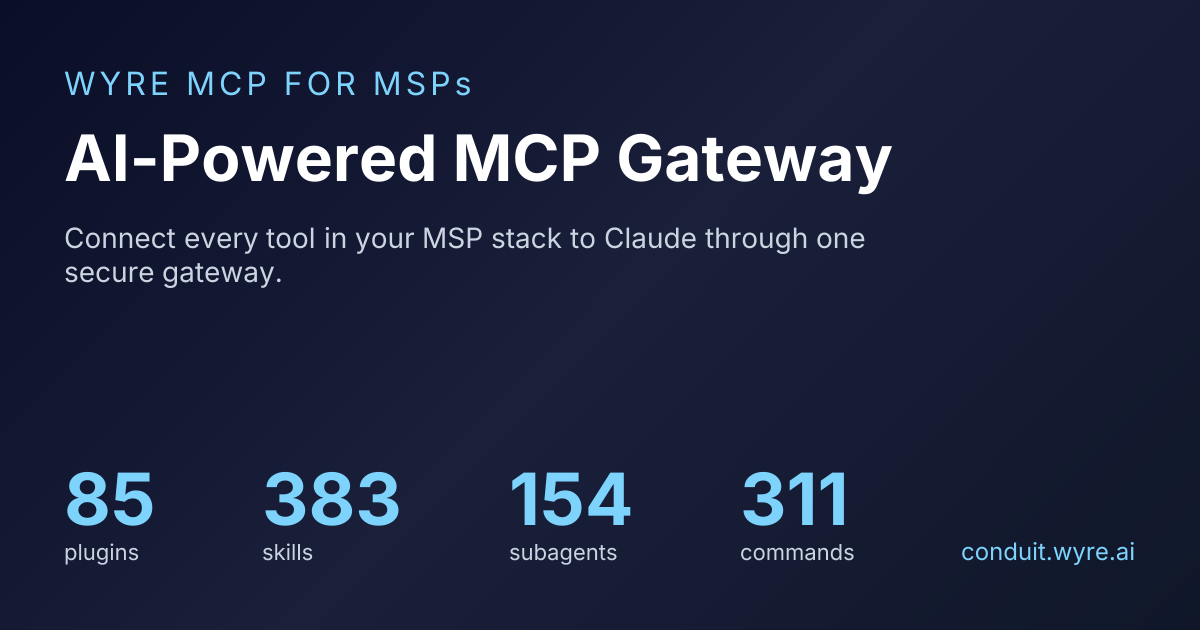
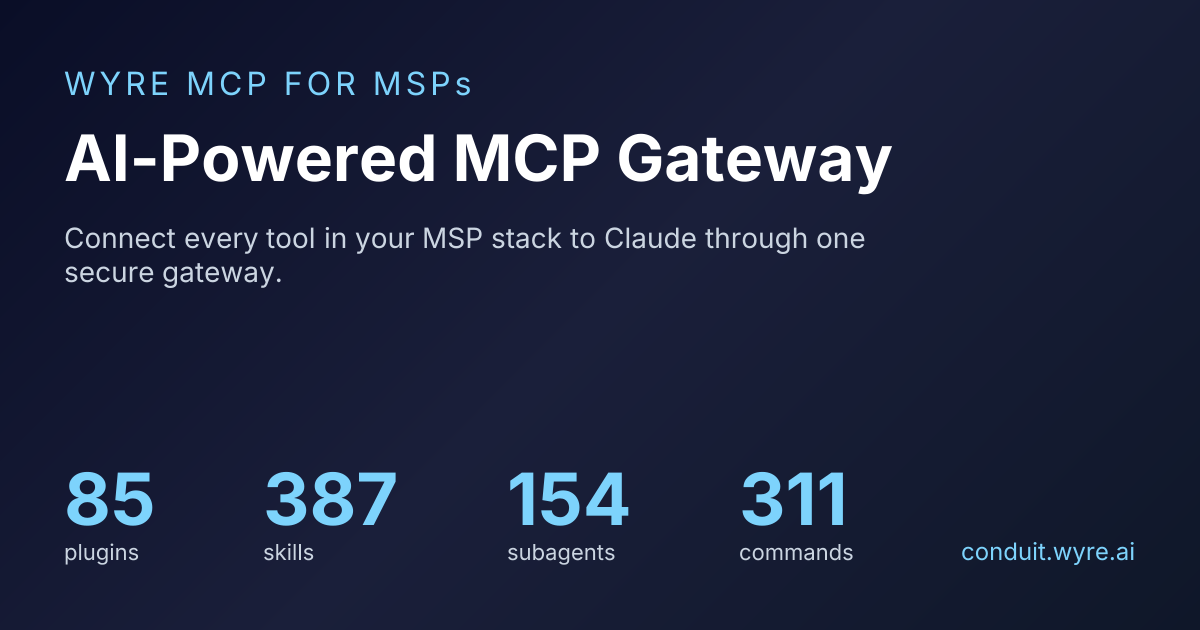
docs: Conduit .mcp.json convention, shared-skills README, changelog, marketplace 1.35.0
- CONTRIBUTING.md: replace the npx/stdio @vendor/mcp-server template with
  the two conventions in use (connector-only, or URL-only per-slug
  .mcp.json, deprecated but supported), explain why Conduit ignores client
  headers, and require live Conduit tool names.
- shared-skills gains a README.
- CHANGELOG entry for this branch; marketplace version 1.35.0.
- Regenerate docs data, og-image and .agents manifests.

Claude-Session: https://claude.ai/code/session_01TSPBH4dciHwEHh8MnRWLb7

diff --git a/msp-claude-plugins/docs/src/data/plugins.ts b/msp-claude-plugins/docs/src/data/plugins.ts
@@ -237,6 +237,7 @@ export const plugins: Plugin[] = [
     features: [
       'Billing',
       'Configuration Items',
+      'Contract Services',
       'Contract Management',
       'CRM Operations',
       'Expense Management',
@@ -252,6 +253,7 @@ export const plugins: Plugin[] = [
     skills: [
       { name: 'billing', description: 'Autotask billing item retrieval, approval-level workflows, and invoice search — covering billing item types, approval status filtering, and reconciliation of billable work against invoices for MSP finance teams.' },
       { name: 'configuration-items', description: 'Autotask Configuration Item (CI) asset management: CI types and categories, lifecycle status codes, the CI field schema, related-item relationships, DNS records, notes, and contract/billing associations for MSP infrastructure tracking.' },
+      { name: 'contract-services', description: 'The recurring-billing side of Autotask contracts: service and bundle lines (autotask_search_contract_services, autotask_search_contract_service_bundles), the billed unit rows behind them (autotask_search_contract_service_units, autotask_search_contract_service_bundle_units), the per-contract monthly recurring-revenue roll-up (autotask_get_contract_recurring_lines), and writing service lines and onboarding contract shells.' },
       { name: 'contracts', description: 'Autotask contract and service agreement management - contract types (recurring services, block hours, time & materials, fixed price, retainer), service/service bundle associations, SLAs, and how contracts drive billing for MSP account managers.' },
       { name: 'crm', description: 'Autotask CRM entities - companies (accounts), contacts, and sites/locations - including field references, company type classifications, and how these records underpin tickets, contracts, and projects for MSP account management.' },
       { name: 'expenses', description: 'Autotask expense report and expense item structure - the report/item parent-child relationship, approval status workflow, expense categories, payment types, and the billable vs reimbursable distinction for MSP operational expenses.' },
@@ -462,6 +464,7 @@ export const plugins: Plugin[] = [
       'Licenses',
       'Mailbox & Email',
       'Ops',
+      'Secure Score',
       'Security Posture',
       'Standards',
       'Tenants',
@@ -473,6 +476,7 @@ export const plugins: Plugin[] = [
       { name: 'licenses', description: 'Read-only M365 license visibility through CIPP: per-tenant SKU purchase vs. consumption, portfolio-wide CSP license commitments, common SKU part numbers and their friendly names, and the license-mix red flags that drive rightsizing and billing reconciliation.' },
       { name: 'mailboxes', description: 'The four Exchange Online mailbox operations CIPP exposes — mailbox inventory, delegate/full-access permission audit, out-of-office, and email forwarding — plus the BEC-remediation, offboarding, and leave-coverage sequences built from them.' },
       { name: 'ops', description: 'CIPP\'s own operational layer rather than the tenants it manages: GDAP role definitions and pending invites, the CIPP scheduler, and the ping/version/log endpoints used to diagnose why other CIPP tools fail silently.' },
+      { name: 'secure-score', description: 'Microsoft Secure Score through CIPP: the live per-tenant score and its history (cipp_get_secure_score), the recommendation catalog behind it (cipp_list_secure_score_controls), and how to turn the two into a ranked, client-ready improvement plan.' },
       { name: 'security', description: 'Read-only access to a tenant\'s Conditional Access policy graph and named locations through CIPP: policy state semantics, the findings that matter in a CA review, portfolio drift detection, and why CA writes are absent from the MCP surface.' },
       { name: 'standards', description: 'CIPP\'s tenant-baseline enforcement model: the Report/Alert/Remediate standards modes and how to roll them out, on-demand standards evaluation, Best Practice Analyser reports, and SPF/DKIM/DMARC domain health results with their remediation actions.' },
       { name: 'tenants', description: 'The top-level CIPP scope: enumerating managed M365 tenants, retrieving tenant detail, and the accepted `tenantFilter` identifier formats (default domain, custom domain, GUID, `allTenants`).' },
@@ -653,16 +657,20 @@ export const plugins: Plugin[] = [
     features: [
       'Company Management',
       'Contact Management',
+      'Procurement',
       'Product Catalog',
       'Project Management',
+      'Scheduling',
       'Ticket Management',
       'Time Entry Tracking'
     ],
     skills: [
       { name: 'companies', description: 'ConnectWise PSA company/account management: company types, statuses, sites/locations, custom fields, and company relationships.' },
       { name: 'contacts', description: 'ConnectWise PSA contact management: contact records, contact types, communication items (email, phone), portal access, and relationships to companies.' },
+      { name: 'procurement', description: 'ConnectWise PSA procurement and stock through Conduit: purchase orders and their line items, sales orders and their products, procurement product items placed on tickets/projects/opportunities, warehouses and bins, inventory on hand, and the three-step inventory adjustment (cw_create_adjustment, cw_add_adjustment_detail, cw_close_adjustment).' },
       { name: 'product-catalog', description: 'ConnectWise PSA product catalog: catalog items (SKUs), categories, subcategories, manufacturers, and their use on quotes, opportunities, agreements, and tickets.' },
       { name: 'projects', description: 'ConnectWise PSA project management: project lifecycle and status/type values, phases, templates, resource/team allocation, budgeting, billing methods, and project tickets.' },
+      { name: 'scheduling', description: 'ConnectWise PSA schedule entries through Conduit: booking a member\'s time against a service ticket, project ticket or activity (cw_create_schedule_entry), finding and moving bookings (cw_search_schedule_entries, cw_update_schedule_entry), schedule types and statuses, UTC date handling, and the difference between a booking and a time entry.' },
       { name: 'tickets', description: 'ConnectWise PSA ticket management: ticket fields, service boards, statuses, priorities, SLAs, ticket notes, and workflow automation.' },
       { name: 'time-entries', description: 'ConnectWise PSA time entry management: charge-to types (tickets, projects, charge codes), billable vs non-billable time, work types and work roles, time sheets, and the time entry approval workflow.' },
       { name: 'api-patterns', description: 'ConnectWise PSA REST API fundamentals: public/private key + clientId authentication, page/pageSize pagination, the conditions query syntax, rate limiting (60/min), and error-response handling.' }
@@ -2200,7 +2208,7 @@ export const plugins: Plugin[] = [
       { name: 'contacts', description: 'HubSpot contact records: core and MSP-relevant custom fields, lifecycle stages, lead status values, contact ownership, CRM search filter patterns, and associations to companies and deals.' },
       { name: 'deals', description: 'HubSpot deal records and sales pipelines: deal fields, default and custom pipeline stages, deal amount conventions (MRR vs. TCV), forecast categories and weighted forecasting, and associating deals with contacts and companies.' },
       { name: 'tickets', description: 'HubSpot support tickets: core fields, default pipeline stages, priority levels, MSP ticket categories, SLA timestamp properties, and associating tickets with contacts, companies, and deals.' },
-      { name: 'api-patterns', description: 'HubSpot\'s official remote MCP server and the CRM Search API behind it: the complete MCP tool catalog, OAuth 2.0 + PKCE connection over Streamable HTTP, automatic scope derivation, sensitive-data (PHI) exclusion, filter/sort/ pagination syntax, plan-tier rate limits, and error handling.' }
+      { name: 'api-patterns', description: 'HubSpot\'s official remote MCP server (brokered by Conduit) and the CRM Search API behind it: the live tool catalog (search_crm_objects, get_crm_objects, manage_crm_objects, properties and owners), OAuth via the Conduit connect flow, scopes, sensitive-data (PHI) exclusion, filter/sort/ pagination syntax, plan-tier rate limits, and error handling.' }
     ],
     agents: [
       { name: 'client-relationship-manager', description: 'Use this agent when an MSP account manager or vCIO needs to review account health across the client portfolio in HubSpot.' },
@@ -3174,7 +3182,7 @@ export const plugins: Plugin[] = [
     id: 'kpn',
     name: 'KPN',
     vendor: 'Kpn',
-    description: 'KPN (Dutch telco) - outage and speed checks by address, SIM-swap fraud checks, and business-mobile fleet management: subscribers, contracts, orders, invoices, SIM block/replace (alpha - no verified KPN developer-portal credentials yet)',
+    description: 'KPN (Dutch telco) via the Grexx/IRMA interface - address availability and planned work, line diagnostics, and read-only business-mobile lookups (orders, SIM, usage, settings)',
     category: 'network',
     maturity: 'beta',
     features: [
@@ -3182,14 +3190,14 @@ export const plugins: Plugin[] = [
       'Network Checks'
     ],
     skills: [
-      { name: 'mobile-fleet', description: 'KPN business mobile through Mobile Services Management (MSM v11): subscribers, contracts (lines/SIMs), allowed operations per contract, orders and service requests, invoices and invoice PDFs, the customer\'s organisation tree and usage thresholds; plus the confirmed writes (SIM block, unblock, replace; order authorize and cancel) and PIN/PUK handling.' },
-      { name: 'network-checks', description: 'Address- and number-level lookups against KPN: current and planned outages at a Dutch address (Disturbance Check), available access technology and speeds at an address (Speed Check), and the date of the last SIM swap on a KPN mobile number as a fraud signal.' },
-      { name: 'api-patterns', description: 'How the KPN tool surface behaves through Conduit: the X-KPN-* credential headers and the two OAuth token realms (API Store vs Mobile Services Management), why a valid key can still fail with 401/403 (product entitlement), quota headers and 429 handling, the write-confirmation flow, and why failed MSM writes are never retried automatically.' }
+      { name: 'mobile-fleet', description: 'KPN business mobile through the Grexx (IRMA) interface: finding a customer\'s mobile orders, reading number/SIM/subscription/bundle data (kpn_grexx_mobile_orders), the active SIM or eSIM (kpn_grexx_get_sim), blocks and limits (kpn_grexx_mobile_settings), current usage (kpn_grexx_mobile_usage) and available number portings.' },
+      { name: 'network-checks', description: 'Address- and line-level checks against KPN\'s Grexx interface: technology, speeds and product availability at a Dutch address (kpn_grexx_zipcode_check, kpn_grexx_prequalification), infrastructure and planned work (kpn_grexx_carrier_info), and live line diagnostics on a connectivity order (kpn_grexx_radius_check, kpn_grexx_ras_check, kpn_grexx_start_line_diagnose).' },
+      { name: 'api-patterns', description: 'How the KPN tool surface behaves through Conduit: the Grexx (IRMA) wholesale interface behind the kpn_grexx_* tools, the client-ID/secret credential pair and the optional Grexx URL fields, the IRMA customer/order model, the one write tool, and common errors.' }
     ],
     agents: [],
     commands: [
-      { name: '/check-outage', description: 'Check a Dutch address for KPN outages and report what connectivity is available there' },
-      { name: '/lost-phone', description: 'Find the KPN business-mobile contract for a lost or stolen phone and block its SIM after confirmation' }
+      { name: '/check-outage', description: 'Check a Dutch KPN site for line problems and planned work, and report what connectivity is available there' },
+      { name: '/lost-phone', description: 'Find the KPN business-mobile line and SIM for a lost or stolen phone so it can be blocked in the Grexx portal' }
     ],
     apiInfo: {
       baseUrl: '',

diff --git a/msp-claude-plugins/docs/src/data/sharedSkills.ts b/msp-claude-plugins/docs/src/data/sharedSkills.ts
@@ -23,5 +23,5 @@ export const sharedSkills: SharedSkill[] = [
 export const sharedSkillsMeta = {
   installSlug: 'shared-skills',
   description: 'Vendor-agnostic MSP skills — terminology, ticket triage, incident correlation, and billing reconciliation',
-  version: '1.1.7',
+  version: '1.1.8',
 };

diff --git a/CONTRIBUTING.md b/CONTRIBUTING.md
@@ -406,59 +406,60 @@ Before submitting:
 
 ## MCP Server Integration Guide
 
-MCP (Model Context Protocol) enables direct API connectivity from Claude.
+MCP (Model Context Protocol) enables direct API connectivity from Claude. Plugins in this marketplace reach vendors through the **WYRE Conduit gateway**, which holds vendor credentials, enforces per-tool permission tiers, and audits every call. Plugins never carry vendor secrets.
 
-### MCP Configuration File
+### The `.mcp.json` convention
 
-Create `.mcp.json` in your plugin root:
+Choose one of two shapes. Both are URL-only: **no `headers` block and no environment variables.**
 
-```json
-{
-  "mcpServers": {
-    "vendor-product": {
-      "command": "npx",
-      "args": ["-y", "@vendor/mcp-server-product"],
-      "env": {
-        "API_USERNAME": "${VENDOR_USERNAME}",
-        "API_KEY": "${VENDOR_API_KEY}"
-      }
-    }
-  }
-}
-```
+1. **Connector-only (preferred for new plugins).** Ship no `.mcp.json`. The user installs the `wyre-gateway` plugin (or any workflow pack), which connects to the unified endpoint, and connects the vendor in the Conduit web UI. Say so in the README.
 
-### Environment Variable References
+2. **Per-vendor URL** (the 12 existing vendor plugins that ship one). Deprecated by Conduit but still supported — the per-slug route answers with `Deprecation: true` and a successor link to `/v1/mcp`:
 
-- Use `${VARIABLE_NAME}` syntax for environment variables
-- Document all required variables in README.md
-- Never hardcode credentials
+   ```json
+   {
+     "mcpServers": {
+       "<conduit-slug>": {
+         "type": "http",
+         "url": "https://conduit.wyre.ai/v1/<conduit-slug>/mcp"
+       }
+     }
+   }
+   ```
+
+   `<conduit-slug>` must be the vendor's key in Conduit's `VENDORS` (for example `connectwise-psa`, not `connectwise-manage`; `avanan`, not `checkpoint-avanan`).
+
+Workflow packs and `wyre-gateway` use the unified endpoint, `https://conduit.wyre.ai/v1/mcp`, with the server name `conduit`.
+
+### Why there are no headers
+
+Conduit forwards only `mcp-session-id` from the client (`buildUpstreamHeaders` in Conduit's `src/proxy/router.ts`). Vendor credentials are stored on the Conduit connection and injected after the OAuth check, mapped onto the `X-<Vendor>-*` headers in Conduit's `vendor-config.ts` `headerMapping`. Client-sent `X-<Vendor>-*` headers are dropped, so putting them in `.mcp.json` only asks users to keep secrets in environment variables for nothing. Document the **Conduit connection fields** in the README instead, and mention the header names only when explaining what the MCP server receives.
+
+### Tool names
+
+Every tool a skill, agent or command names must exist on the live Conduit connector for that vendor (check Conduit's `VENDOR_TOOL_CONFIG` in `src/proxy/result-cache.ts` and the connector's `tools/list`). `scripts/check-tool-anchoring.mjs` and `scripts/tool-drift-audit.mjs` enforce this. State each write or admin tool's Conduit tier where you describe it.
 
 ### Testing MCP Integration
 
 ```bash
-# 1. Set environment variables
-export VENDOR_USERNAME="test-user"
-export VENDOR_API_KEY="test-key"
-
-# 2. Start Claude Code with plugin
+# 1. Install the gateway plugin and connect the vendor in the Conduit web UI
+# 2. Start Claude Code with your plugin
 cd vendor/product
 claude --plugin .
-
-# 3. Test MCP tools
-# Claude should have access to vendor API tools
+# 3. Exercise the skills; the vendor's tools come from Conduit
 ```
 
 ### MCP Server Development
 
-If creating a new MCP server:
+New vendor MCP servers are built as Conduit sidecars (see the `mcp-vendor-scaffolding` process), not published for clients to run with `npx`. When a new server ships:
 
-1. Follow [MCP specification](https://modelcontextprotocol.io/)
-2. Publish to npm as `@vendor/mcp-server-product`
-3. Document all available tools
-4. Include authentication guidance
-5. Handle rate limiting appropriately
+1. Follow the [MCP specification](https://modelcontextprotocol.io/)
+2. Register the vendor in Conduit (`vendor-config.ts`) and classify every tool in `VENDOR_TOOL_CONFIG`
+3. Name the plugin exactly after the Conduit `VENDORS` key, so the skill catalog links them
+4. Document all tools and their tiers in the plugin
 
 ---
+
 
 ## Testing Requirements
 

diff --git a/CHANGELOG.md b/CHANGELOG.md
@@ -7,6 +7,22 @@ and this project adheres to [Semantic Versioning](https://semver.org/spec/v2.0.0
 
 ## [Unreleased]
 
+### Fixed
+
+- **Plugin drift and Conduit consistency (marketplace 1.35.0).** Docs checked against Conduit main (`vendor-config.ts`, `VENDOR_TOOL_CONFIG`) and the live connector tool lists. Every changed plugin is patch-bumped.
+  - **`.mcp.json` headers removed.** Conduit forwards only `mcp-session-id` from the client and injects stored credentials, so the `X-<Vendor>-*` headers in `auvik`, `blackpoint`, `crewhu`, `freshdesk`, `immybot`, `inforcer`, `saas-alerts`, `threatlocker` and `timezest` were never used. Those files are now URL-only, and the READMEs and api-patterns skills describe the Conduit connection fields instead of env vars.
+  - **Retired hosts and slugs.** `*-mcp.wyre.workers.dev` defaults (19 files), `mcp.wyre.ai` documentation links, `mcp.wyretechnology.com` in the gateway guide, and the `connectwise-manage` / `checkpoint-avanan` self-hosted slugs now point at Conduit (`connectwise-psa`, `avanan`). The workflow-pack template uses `https://conduit.wyre.ai/v1/mcp` and the `conduit` server name. READMEs that told users to copy a `.mcp.json` that does not exist describe the Conduit connect flow.
+  - **Docs site.** `mcp.wyre.ai` now 301s to Conduit and 404s every doc path, so the site defaults to the GitHub Pages target (`wyre-ai.github.io/msp-claude-plugins/`) and root-relative links honour `BASE_URL`. The generator no longer truncates descriptions at "vs." / "e.g." / "i.e.", knows every marketplace category (and fails on an unknown one), and the docs pin Node 22.
+  - **Tool names re-anchored to the live connectors:** `hubspot` (first-party HubSpot MCP: `search_crm_objects`, `get_crm_objects`, `manage_crm_objects`, ...), `kpn` (Grexx `kpn_grexx_*` surface and headers), `datto-saas-protection` (six real tools, no restore), `connectwise-automate` (alerts are read-only; v2.0.5 command/script-history tools), `rootly` (no `check_oncall_health_risk` / acknowledge / resolve tools), `ninjaone` (ticket forms required, no CRITICAL priority), `superops` (alerts and scripts only via the admin-tier GraphQL passthrough), `syncro` (removed the alert, appointment and timer commands that `/v1/syncro` cannot run), `m365` (user/licence/MFA work runs on `cipp` and `microsoft-graph`), `autotask` (no price-list or inventory tools).
+  - **GOVERNANCE tiers** corrected for `hudu`, `sentinelone`, `syncro`, `superops`, `pax8`, `ninjaone`, `connectwise-automate`, `datto-saas-protection`, `azure-mcp`, `rootly` and `hubspot`.
+  - **Header names** in docs match Conduit's `headerMapping` (`X-Ironscales-API-Key`, `X-Ironscales-Company-Id`, `X-Mimecast-Client-Id`, `X-Kaseya-Quote-Manager-API-Key`); `meraki` describes Cisco's hosted MCP with a single API key and no org-id field.
+  - **Not brokered by Conduit:** `slack` and `stripe` carry the disclaimer `warmly` already had; `warmly` states that the legacy gateway it relied on has retired.
+  - `CONTRIBUTING.md` documents the URL-only `.mcp.json` convention; `shared-skills` gains a README; `tool-drift-audit.mjs` keys `connectwise/manage` to the `connectwise-psa` Conduit slug and reads negations across the whole paragraph.
+
+### Added
+
+- **Skill coverage for tools the shipped connectors added:** `connectwise-psa-procurement` and `connectwise-psa-scheduling`, `autotask-contract-services`, `cipp-secure-score`, `datto-saas-protection-seat-coverage`, `ninjaone-custom-fields`, `sentinelone-threat-intel`; plus new sections for CIPP standards templates, drift/alignment, mailbox usage, trusted senders, enterprise apps and sign-in logs, Datto RMM job results, HaloPSA ticket categories, IT Glue attachments/user metrics/configuration archiving, and Autotask note attachments, resource roles and opportunity updates.
+
 ### Changed
 
 - **`cipp` 0.1.10 — setup no longer offers Smithery ([WYREAI-599](https://linear.app/wyre-ai/issue/WYREAI-599/smithery-hosted-proxy-shuts-down-oct-31-audit-and-migrate-mcp-repos)).** Smithery's hosted MCP proxy shuts down Oct 31, 2026. The README setup step now points to Docker or npx, or the hosted Conduit option at https://conduit.wyre.ai.

diff --git a/msp-claude-plugins/shared/README.md b/msp-claude-plugins/shared/README.md
@@ -1,0 +1,33 @@
+# Shared Skills
+
+Vendor-agnostic MSP knowledge that other plugins in this marketplace build on. It ships no MCP connection of its own; the skills reason over whatever PSA, RMM, documentation and accounting tools are connected through [Conduit](https://conduit.wyre.ai).
+
+## Installation
+
+```
+/plugin marketplace add WYRE-AI/msp-claude-plugins
+/plugin install shared-skills
+```
+
+## Skills
+
+| Skill | Covers |
+|-------|--------|
+| `shared-skills-msp-terminology` | MSP acronyms, roles, contract and billing concepts, and the vocabulary used across PSA, RMM, documentation and security platforms |
+| `shared-skills-ticket-triage` | Vendor-agnostic ticket priority, categorisation, routing and first response |
+| `shared-skills-incident-correlation` | Combining PSA tickets, RMM device state, documentation assets and configuration changes into one incident summary |
+| `shared-skills-billing-reconciliation` | Matching cloud-marketplace subscriptions (Pax8) against accounting invoices (Xero, QuickBooks Online) |
+| `shared-skills-wyre-gateway-troubleshooting` | Diagnosing missing vendor tools, OAuth failures and expired credentials on the WYRE gateway |
+
+## Commands
+
+| Command | Purpose |
+|---------|---------|
+| `/correlate-incident` | Build a cross-tool incident summary |
+| `/reconcile-billing` | Reconcile marketplace subscriptions against invoices |
+
+Vendor-specific plugins point here (for example `shared-skills-ticket-triage`) instead of repeating the practice in every PSA plugin.
+
+## License
+
+Apache-2.0
